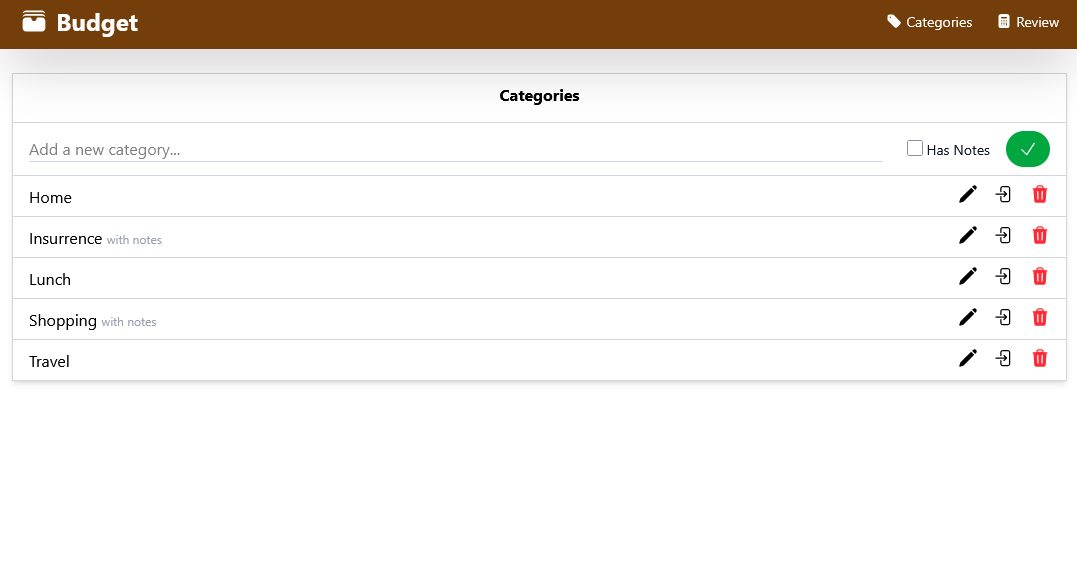
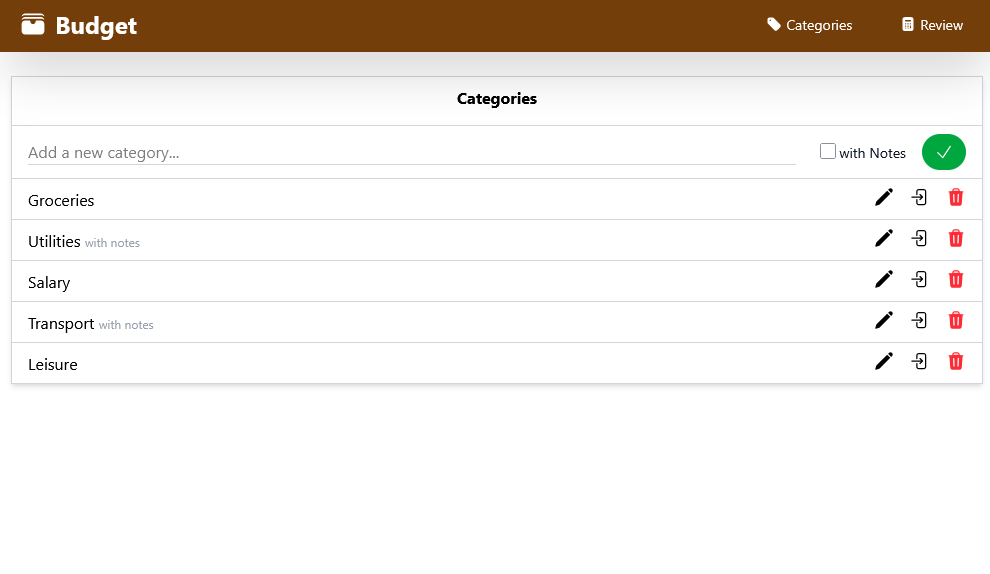
UPDATE screenshots

Changed region(s): [[0.0, 0.1185, 1.0, 0.6812], [0.0, 0.0, 1.0, 0.0889]]

diff --git a/prisma/seed/data.ts b/prisma/seed/data.ts
@@ -1,0 +1,263 @@
+import { TransactionType } from "~/generated/db";
+
+// Helper to get a unix timestamp (seconds) for a given month offset and day
+function getTimestamp(monthOffset: number, day: number) {
+  const now = new Date();
+  const year = now.getFullYear();
+  const month = now.getMonth() + monthOffset;
+  const date = new Date(year, month, day, 0, 0, 0, 0);
+  return date.getTime() / 1000;
+}
+
+export const categories = [
+  { name: "Groceries", hasNotes: false },
+  { name: "Utilities", hasNotes: true },
+  { name: "Salary", hasNotes: false },
+  { name: "Transport", hasNotes: true },
+  { name: "Leisure", hasNotes: false },
+];
+
+export const transactions = [
+  // Month 1
+  {
+    amount: 50.25,
+    type: TransactionType.expense,
+    categoryId: 1,
+    date: getTimestamp(0, 1),
+    note: "Supermarket",
+  },
+  {
+    amount: 120.0,
+    type: TransactionType.expense,
+    categoryId: 2,
+    date: getTimestamp(0, 1),
+    note: "Electricity bill",
+  },
+  {
+    amount: 2000.0,
+    type: TransactionType.income,
+    categoryId: 3,
+    date: getTimestamp(0, 1),
+    note: "Monthly salary",
+  },
+  {
+    amount: 15.0,
+    type: TransactionType.expense,
+    categoryId: 4,
+    date: getTimestamp(0, 1),
+    note: "Bus pass",
+  },
+  {
+    amount: 30.0,
+    type: TransactionType.expense,
+    categoryId: 5,
+    date: getTimestamp(0, 1),
+    note: "Cinema",
+  },
+
+  {
+    amount: 45.0,
+    type: TransactionType.expense,
+    categoryId: 1,
+    date: getTimestamp(0, 2),
+    note: "Groceries",
+  },
+  {
+    amount: 10.0,
+    type: TransactionType.expense,
+    categoryId: 4,
+    date: getTimestamp(0, 2),
+    note: "Taxi",
+  },
+  {
+    amount: 25.0,
+    type: TransactionType.expense,
+    categoryId: 5,
+    date: getTimestamp(0, 2),
+    note: "Bowling",
+  },
+
+  {
+    amount: 60.0,
+    type: TransactionType.expense,
+    categoryId: 1,
+    date: getTimestamp(0, 3),
+    note: "Supermarket",
+  },
+  {
+    amount: 100.0,
+    type: TransactionType.expense,
+    categoryId: 2,
+    date: getTimestamp(0, 3),
+    note: "Water bill",
+  },
+  {
+    amount: 20.0,
+    type: TransactionType.expense,
+    categoryId: 4,
+    date: getTimestamp(0, 3),
+    note: "Train ticket",
+  },
+
+  // Month 2
+  {
+    amount: 55.0,
+    type: TransactionType.expense,
+    categoryId: 1,
+    date: getTimestamp(1, 1),
+    note: "Groceries",
+  },
+  {
+    amount: 120.0,
+    type: TransactionType.expense,
+    categoryId: 2,
+    date: getTimestamp(1, 1),
+    note: "Gas bill",
+  },
+  {
+    amount: 2000.0,
+    type: TransactionType.income,
+    categoryId: 3,
+    date: getTimestamp(1, 1),
+    note: "Monthly salary",
+  },
+  {
+    amount: 18.0,
+    type: TransactionType.expense,
+    categoryId: 4,
+    date: getTimestamp(1, 1),
+    note: "Bus pass",
+  },
+  {
+    amount: 40.0,
+    type: TransactionType.expense,
+    categoryId: 5,
+    date: getTimestamp(1, 1),
+    note: "Theater",
+  },
+
+  {
+    amount: 48.0,
+    type: TransactionType.expense,
+    categoryId: 1,
+    date: getTimestamp(1, 2),
+    note: "Groceries",
+  },
+  {
+    amount: 12.0,
+    type: TransactionType.expense,
+    categoryId: 4,
+    date: getTimestamp(1, 2),
+    note: "Taxi",
+  },
+  {
+    amount: 22.0,
+    type: TransactionType.expense,
+    categoryId: 5,
+    date: getTimestamp(1, 2),
+    note: "Museum",
+  },
+
+  {
+    amount: 62.0,
+    type: TransactionType.expense,
+    categoryId: 1,
+    date: getTimestamp(1, 3),
+    note: "Supermarket",
+  },
+  {
+    amount: 105.0,
+    type: TransactionType.expense,
+    categoryId: 2,
+    date: getTimestamp(1, 3),
+    note: "Internet bill",
+  },
+  {
+    amount: 19.0,
+    type: TransactionType.expense,
+    categoryId: 4,
+    date: getTimestamp(1, 3),
+    note: "Train ticket",
+  },
+
+  // Month 3
+  {
+    amount: 58.0,
+    type: TransactionType.expense,
+    categoryId: 1,
+    date: getTimestamp(2, 1),
+    note: "Groceries",
+  },
+  {
+    amount: 130.0,
+    type: TransactionType.expense,
+    categoryId: 2,
+    date: getTimestamp(2, 1),
+    note: "Electricity bill",
+  },
+  {
+    amount: 2000.0,
+    type: TransactionType.income,
+    categoryId: 3,
+    date: getTimestamp(2, 1),
+    note: "Monthly salary",
+  },
+  {
+    amount: 17.0,
+    type: TransactionType.expense,
+    categoryId: 4,
+    date: getTimestamp(2, 1),
+    note: "Bus pass",
+  },
+  {
+    amount: 35.0,
+    type: TransactionType.expense,
+    categoryId: 5,
+    date: getTimestamp(2, 1),
+    note: "Concert",
+  },
+
+  {
+    amount: 50.0,
+    type: TransactionType.expense,
+    categoryId: 1,
+    date: getTimestamp(2, 2),
+    note: "Groceries",
+  },
+  {
+    amount: 14.0,
+    type: TransactionType.expense,
+    categoryId: 4,
+    date: getTimestamp(2, 2),
+    note: "Taxi",
+  },
+  {
+    amount: 28.0,
+    type: TransactionType.expense,
+    categoryId: 5,
+    date: getTimestamp(2, 2),
+    note: "Bowling",
+  },
+
+  {
+    amount: 65.0,
+    type: TransactionType.expense,
+    categoryId: 1,
+    date: getTimestamp(2, 3),
+    note: "Supermarket",
+  },
+  {
+    amount: 110.0,
+    type: TransactionType.expense,
+    categoryId: 2,
+    date: getTimestamp(2, 3),
+    note: "Water bill",
+  },
+  {
+    amount: 21.0,
+    type: TransactionType.expense,
+    categoryId: 4,
+    date: getTimestamp(2, 3),
+    note: "Train ticket",
+  },
+];

diff --git a/src/routes/__root.tsx b/src/routes/__root.tsx
@@ -7,7 +7,7 @@ import {
 } from "@tanstack/react-router";
 import * as React from "react";
 import { DefaultCatchBoundary } from "~/components/DefaultCatchBoundary";
-import { LocaleProvider, useLocale } from "~/components/Locales";
+import { LocaleProvider } from "~/components/Locales";
 import { NotFound } from "~/components/NotFound";
 import appCss from "~/styles/app.css?url";
 import { seo } from "~/utils/seo";
@@ -73,7 +73,6 @@ function RootComponent() {
 }
 
 function RootDocument({ children }: { children: React.ReactNode }) {
-  //const { locale } = useLocale();
   const locale = "en";
   return (
     <html lang={locale}>

diff --git a/prisma/seed.ts b/prisma/seed.ts
@@ -1,0 +1,27 @@
+import { db } from "~/utils/db";
+import { categories, transactions } from "./seed/data";
+
+async function main() {
+  await db.category.createMany({
+    data: categories,
+  });
+
+  for (const t of transactions) {
+    await db.transaction.create({
+      data: t,
+      include: {
+        category: true,
+      },
+    });
+  }
+}
+
+main()
+  .then(async () => {
+    await db.$disconnect();
+  })
+  .catch(async (e) => {
+    console.error(e);
+    await db.$disconnect();
+    process.exit(1);
+  });

diff --git a/README.md b/README.md
@@ -28,6 +28,10 @@ Here are some screenshots of the app in action:
 | ------------------------------- | ---------------------------------------------- |
 | ![Home](./screenshots/home.png) | ![Category list](./screenshots/categories.png) |
 
+| Review yearly                              | monthly                                      |
+| ------------------------------------------ | -------------------------------------------- |
+| ![Yearly](./screenshots/review_yearly.png) | ![Monthly](./screenshots/review_monthly.png) |
+
 ## Technology Stack 🛠
 
 - ⚛ React
